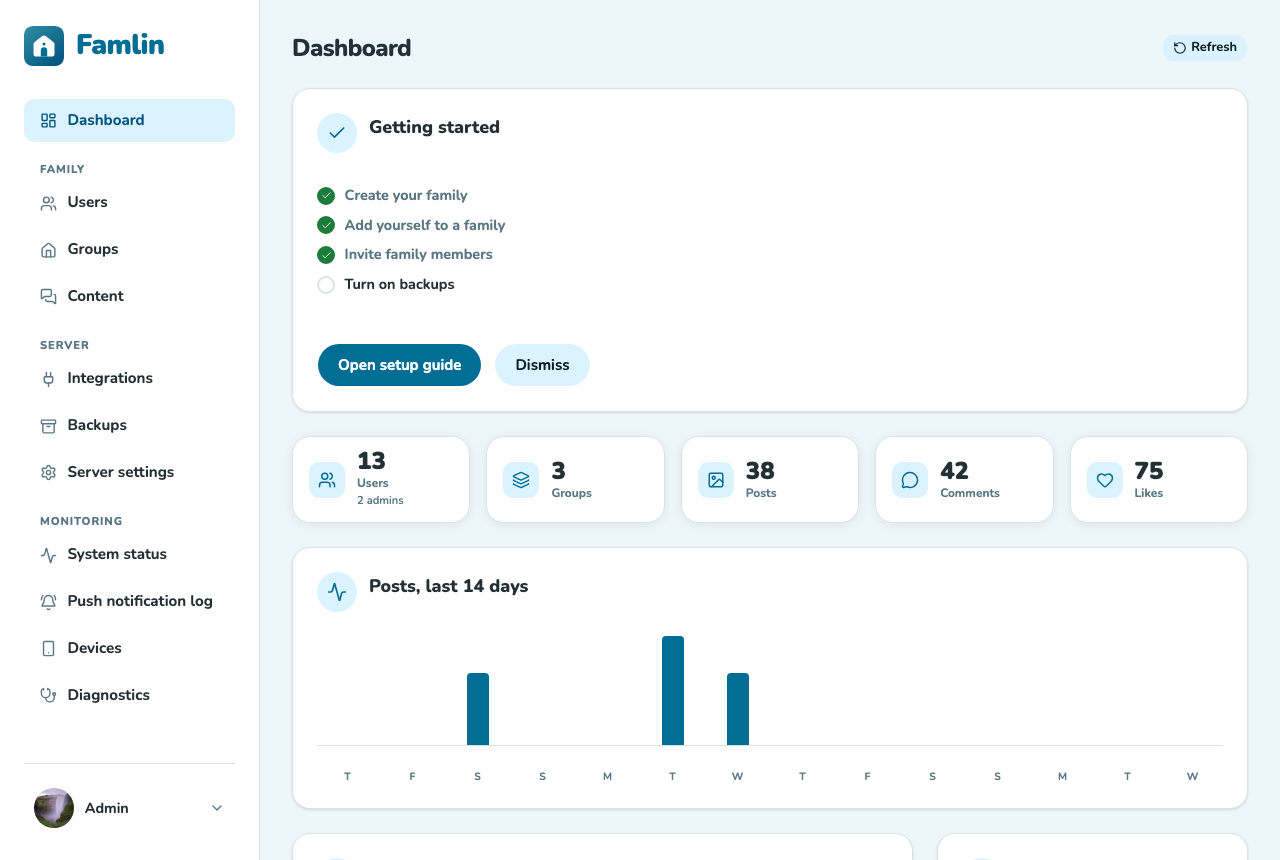
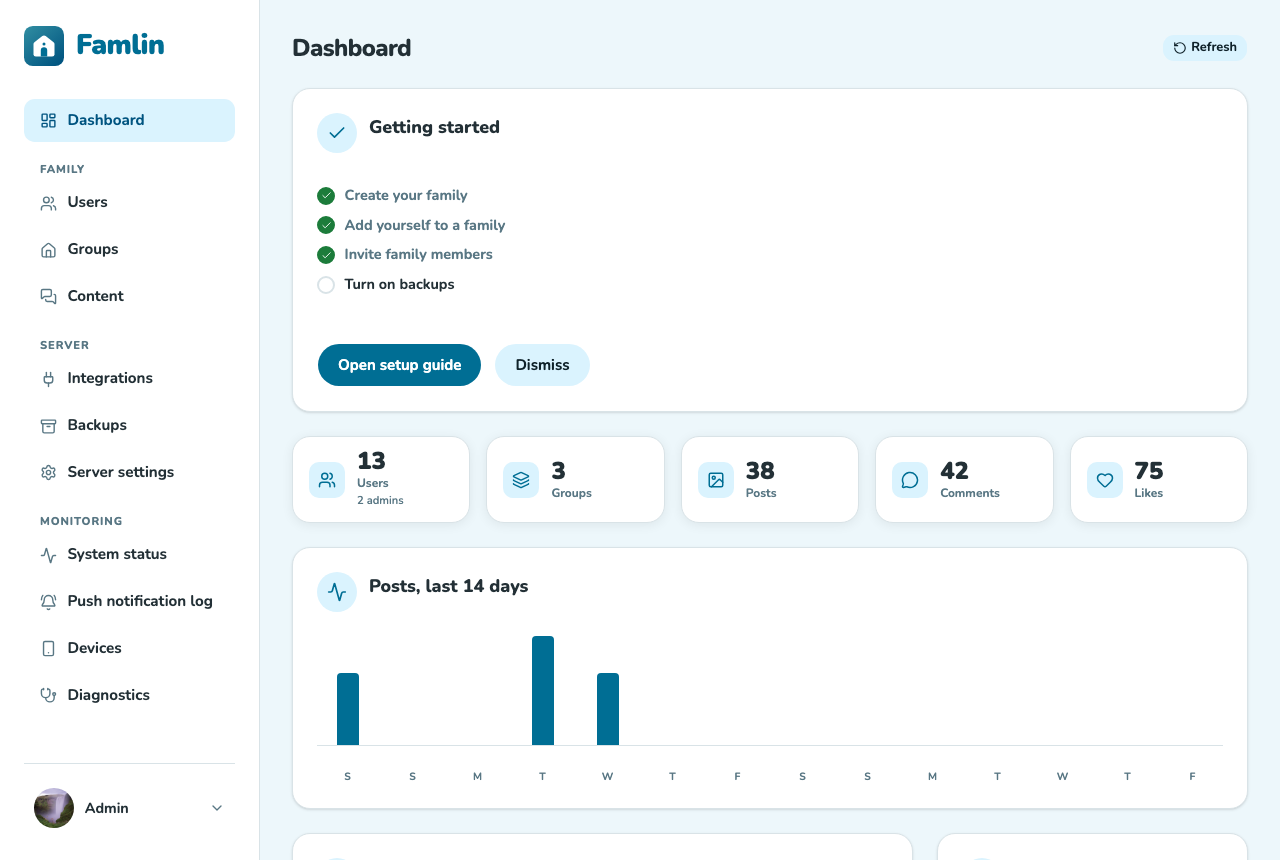
feat: optimize admin UI components and enhance documentation clarity

diff --git a/backend/vitest.config.ts b/backend/vitest.config.ts
@@ -1,4 +1,4 @@
-import { defineConfig } from 'vitest/config'
+import { defineConfig, configDefaults } from 'vitest/config'
 import dotenv from 'dotenv'
 import os from 'os'
 import path from 'path'
@@ -12,6 +12,10 @@ export default defineConfig({
   test: {
     environment: 'node',
     globals: true,
+    // admin/tests holds node:test suites (`npm test --workspace=famlin-admin`),
+    // not vitest ones — the default include would pick them up and fail with
+    // "No test suite found".
+    exclude: [...configDefaults.exclude, 'admin/tests/**'],
     globalSetup: ['./tests/setup/global-setup.ts'],
     setupFiles: ['./tests/setup/test-setup.ts'],
     testTimeout: 15000,

diff --git a/web/src/pages/MembersPage.tsx b/web/src/pages/MembersPage.tsx
@@ -78,9 +78,7 @@ function CircleSection({
           {t('common.loading')}
         </p>
       )}
-      {query.isError && (
-        <LoadError message={t('members.circleMembersFailed')} onRetry={() => void query.refetch()} />
-      )}
+      {query.isError && <LoadError message={t('members.circleMembersFailed')} onRetry={() => void query.refetch()} />}
       {query.isSuccess && (
         <MemberList members={query.data.filter((member) => memberMatches(member, nameQuery, false))} />
       )}

diff --git a/backend/admin/src/components/DashboardPage.tsx b/backend/admin/src/components/DashboardPage.tsx
@@ -124,7 +124,9 @@ export function DashboardPage() {
             ))}
           </ul>
           <div className="wizard-actions">
-            <Button render={<Link to="/getting-started" />}>{t('checklist.continue')}</Button>
+            <Button nativeButton={false} render={<Link to="/getting-started" />}>
+              {t('checklist.continue')}
+            </Button>
             <Button
               variant="secondary"
               type="button"

diff --git a/docs/docs/managing-users-and-content.md b/docs/docs/managing-users-and-content.md
@@ -47,7 +47,7 @@ Reports stay on your server: Famlin never forwards them, and they're deleted aut
 
 ## Groups
 
-The **Groups** page is a two-pane view: pick a group on the left, manage it on the right.
+The **Groups** page is a two-pane view: pick a group on the left, manage it on the right. The detail pane shows the group's feature state as chips under its name — chat, stories and allowed post types, each opening the group form when clicked — and below that the **Members**, **Circles** and **Invites** tabs, each with a live count.
 
 ![The Groups page](./img/admin-groups.png)
 
@@ -60,11 +60,11 @@ The group form (**New group** or **Edit**) holds the name, description, allowed 
 - **Choose which post types the group allows** — the group form's **Allowed post types** section has one checkbox per post type the server supports (plain updates, milestones, polls, events, trip journals, shared albums, [gift lists](./gift-lists.md), and any added later). Leave every box checked (the default) to allow all of them, including types added in a future update — you don't need to come back and re-check anything after an upgrade. Uncheck a type to hide it from that group's post composer; at least one type must stay checked. Existing posts of a type you later uncheck aren't affected — they stay visible, only creating new ones of that type is blocked.
 - **Enable or disable group chat** — the group form has a **Chat** toggle (off by default). When enabled, members can send messages in a shared group chat, pin photos/videos to messages, and see which members have read the latest messages. Chat is not end-to-end encrypted. When a milestone post is created in a group with chat on, a system message is automatically posted in the chat to announce it. Members control their own push-notification preference for chat messages from their profile settings.
 - **Enable or disable stories** — the group form has an **Enable stories** toggle, **on by default** (including for groups that existed before stories were added — an upgrade turns stories on everywhere, so switch it off for any group that shouldn't have them). Stories are photos members share for 24 hours, decorated with text, stickers and drawings in the mobile app; after 24 hours they're permanently deleted, photo included, unless the author kept the story as one of the group's **Highlights**. Viewers can react and send the author one private reply, and the author can see who viewed it. Turning the toggle off stops new stories and also hides the group's existing stories and Highlights (turning it back on shows the Highlights again). Stories are created in the mobile app only; the web app can view, react and reply. Members opt in to push notifications for new stories from their profile (off by default, at most one per person per group per day). In the mobile story viewer, drag the photo downward to dismiss it: the photo follows your finger and reveals the previous screen. A short drag returns quickly and can be interrupted by another swipe; a longer drag or quick downward flick closes the viewer. The photo lightbox uses the same gesture for photos and videos, including swipe-to-close for videos. Playback pauses during the gesture.
-- **Add an existing user to the group** — pick them from the dropdown next to **Add member** in the detail pane (the same action as "manage group membership" on the Users page).
-- **Add a new member to the group** — click **Add member** in the detail pane to open the same modal as on the Users page, preselected to this group; see [Inviting family members](./inviting-family.md) for the invite flow it defaults to.
-- **Add existing users** — click **Add an existing user** to open a modal listing every account not already in the group. Each row has an **Add** button. Added users leave the available list, and the modal stays open so you can add several people before closing it.
-- **Remove a member** — the ✕ icon on their row. Removing someone from a group does **not** delete their existing posts/comments in that group — those stay visible to the remaining members (a deliberate choice, not a bug). It **does** remove them from every circle in that group, immediately: a circle is a smaller audience *inside* the family, so it can't keep granting access to someone the family itself no longer includes. Circles in their other families are untouched.
-- **Family Circles** — a **Circles** section in the detail pane, just under the member list. A circle is a smaller audience *inside* the group ("Grandparents", "Cousins", "Adults only"), so a family doesn't have to split into separate groups to share with part of it.
+- **Add an existing user to the group** — the **Add an existing user** button on the **Members** tab (the same action as "manage group membership" on the Users page).
+- **Add a new member to the group** — click **Add member** on the **Invites** tab to open the same modal as on the Users page, preselected to this group; see [Inviting family members](./inviting-family.md) for the invite flow it defaults to.
+- **Add existing users** — click **Add an existing user** on the **Members** tab to open a modal listing every account not already in the group. Each row has an **Add** button. Added users leave the available list, and the modal stays open so you can add several people before closing it.
+- **Remove a member** — the ✕ icon that appears when you hover (or keyboard-focus) their row. Removing someone from a group does **not** delete their existing posts/comments in that group — those stay visible to the remaining members (a deliberate choice, not a bug). It **does** remove them from every circle in that group, immediately: a circle is a smaller audience *inside* the family, so it can't keep granting access to someone the family itself no longer includes. Circles in their other families are untouched.
+- **Family Circles** — the **Circles** tab in the detail pane. A circle is a smaller audience *inside* the group ("Grandparents", "Cousins", "Adults only"), so a family doesn't have to split into separate groups to share with part of it.
   - **Create a circle** with a name and optional description, then add members from the group's own member list — only people already in the group can be added, since a circle narrows the group rather than granting access to it.
   - **Create and manage circles**: **New circle** opens a modal for its name and description. The pencil button on a circle opens the same form to edit these fields without changing its members or posts. Expand a circle's member list to see the same member cards as the parent group. **Add to circle** opens a modal listing only group members who are not already in that circle; each can be added individually without closing the modal. Removing someone requires confirmation.
   - **Members choose the audience when posting**: the composer offers "Everyone" or any circle they belong to. A circle post is invisible to everyone else in the family — feed, search, photos, comments, notifications, and the photo file itself.
@@ -72,7 +72,7 @@ The group form (**New group** or **Edit**) holds the name, description, allowed 
   - **Deleting a circle permanently deletes its posts and its [Family Wiki](./family-wiki.md) pages**, along with their comments, photos and reactions. There is no restore, and no option to move the content back to the whole family — silently widening an audience is exactly what circles exist to prevent. The confirmation tells you how many posts and wiki pages will be destroyed; if you're not in the circle, that count is all you'll be able to see of them.
   - **Members can leave a circle themselves** from the app. Leaving a circle never removes them from the family group — they just stop seeing that circle's content. Only an admin can add them back.
 - **Photos**: at the bottom of the detail pane, links to the family's albums on the [Integrations](./admin-configuration.md#integrations) page. Linked albums and the Immich upload mirror are set per family on each photo source's **Families** tab.
-- **Invites** — further down the same page (status, copy link, revoke); see [Inviting family members](./inviting-family.md) for that flow.
+- **Invites** — the **Invites** tab (status, copy link, revoke); see [Inviting family members](./inviting-family.md) for that flow.
 
 ## Content moderation
 
